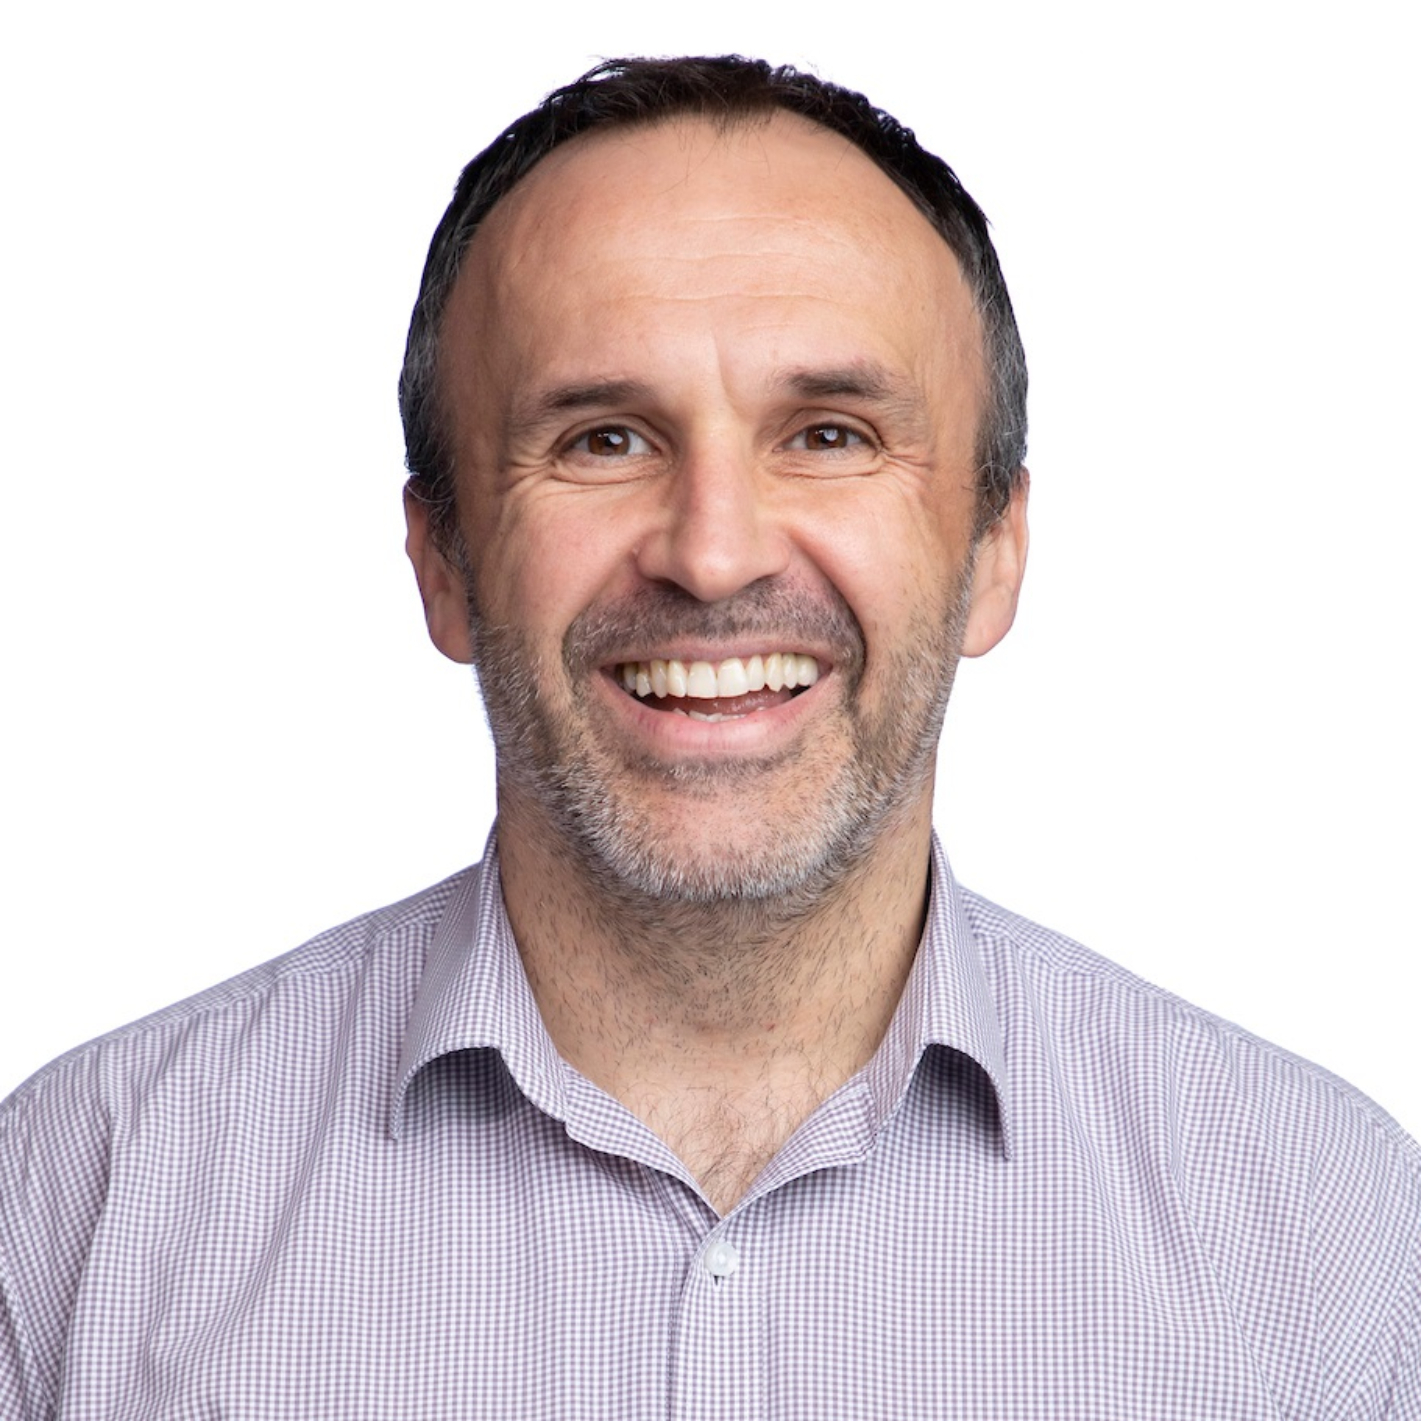
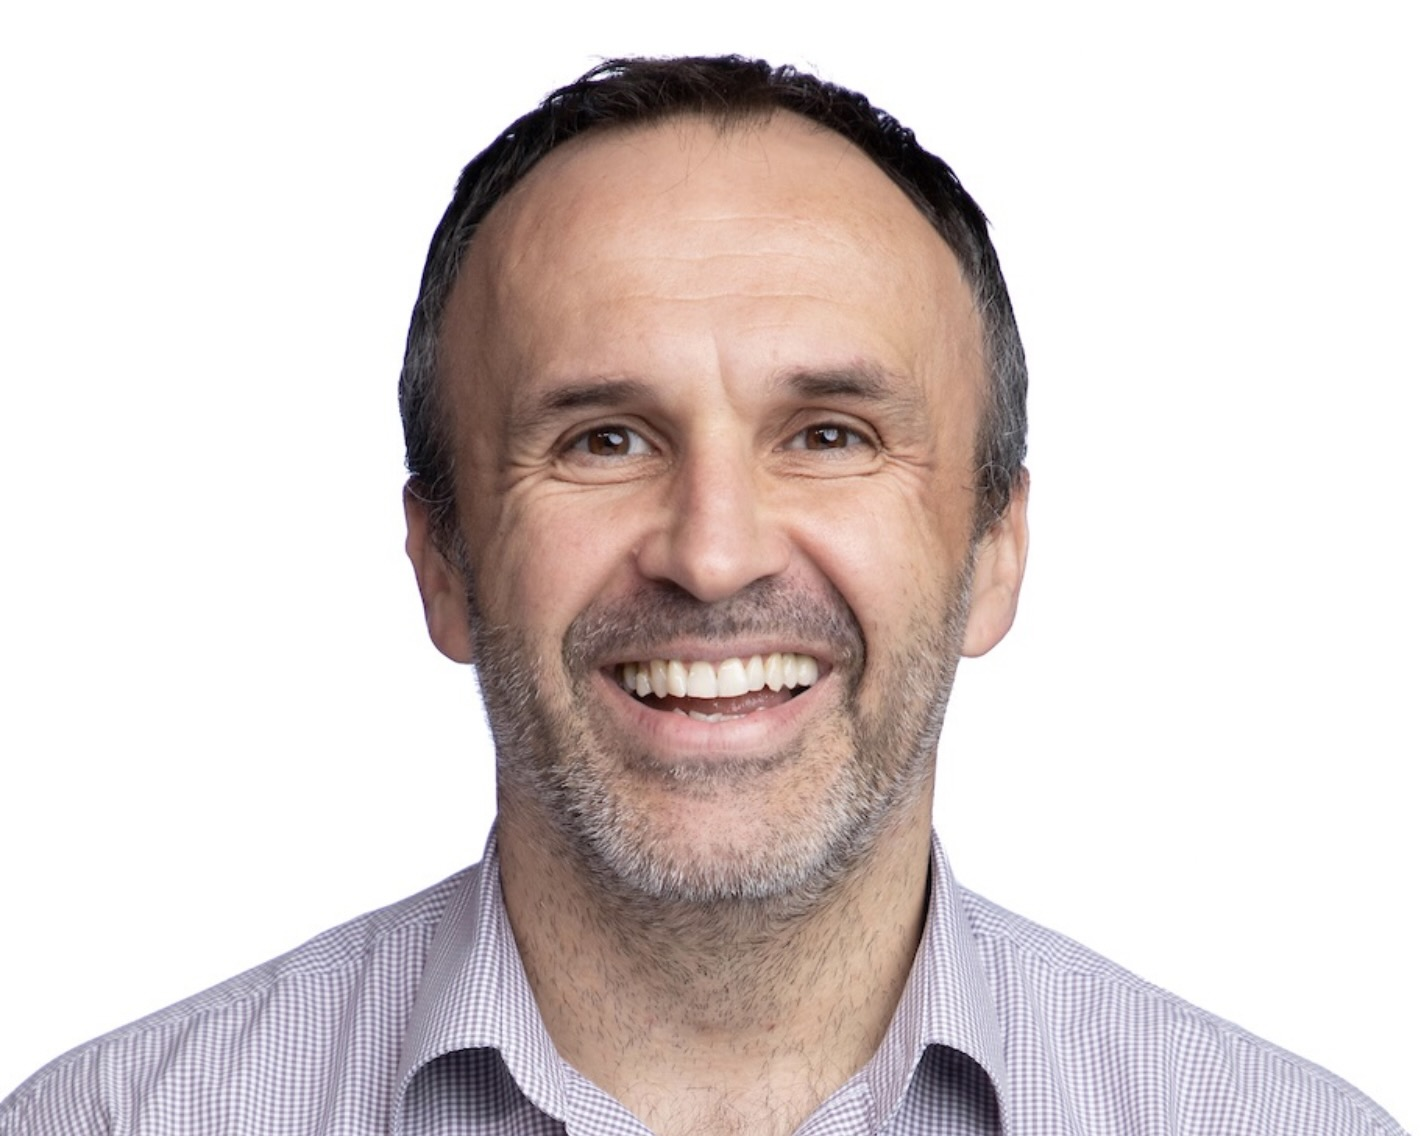
Final

diff --git a/components/Home/Speakers.js b/components/Home/Speakers.js
@@ -19,6 +19,7 @@ export default function Speakers() {
             </div>
           </div>
           <div className="columns is-multiline">
+            {/* zinka */}
             <div className="column is-6">
               <div className="inner">
                 <div className="columns is-mobile is-vcentered">
@@ -58,6 +59,7 @@ export default function Speakers() {
                 </div>
               </div>
             </div>
+            {/* admir */}
             <div className="column is-6">
               <div className="inner">
                 <div className="columns is-mobile is-vcentered">
@@ -97,7 +99,7 @@ export default function Speakers() {
                 </div>
               </div>
             </div>
-
+            {/* fele */}
             <div className="column is-6">
               <div className="inner">
                 <div className="columns is-mobile is-vcentered">
@@ -137,16 +139,13 @@ export default function Speakers() {
                 </div>
               </div>
             </div>
+            {/* mario */}
             <div className="column is-6">
               <div className="inner">
                 <div className="columns is-mobile is-vcentered">
                   <div className="column is-narrow">
                     <div href="" className="speaker-img">
-                      <img
-                        src="./MarioBarosevcic.jpg"
-                        alt=""
-                        className="grayscale"
-                      />
+                      <img src="./Mario.jpg" alt="" className="grayscale" />
                     </div>
                   </div>
                   <div className="column is-8">

diff --git a/styles/Home/_speakers.scss b/styles/Home/_speakers.scss
@@ -50,8 +50,6 @@
     padding: 1.5rem;
   }
   .speaker-img {
-    height: crem(200px);
-    width: crem(200px);
     //border-radius: 50%;
     overflow: hidden;
     -webkit-clip-path: polygon(
@@ -63,7 +61,7 @@
       0% 25%
     );
     clip-path: polygon(50% 0%, 100% 25%, 100% 75%, 50% 100%, 0% 75%, 0% 25%);
-    height: crem(220px);
+    height: crem(230px);
     width: crem(200px);
     overflow: hidden;
     img,
